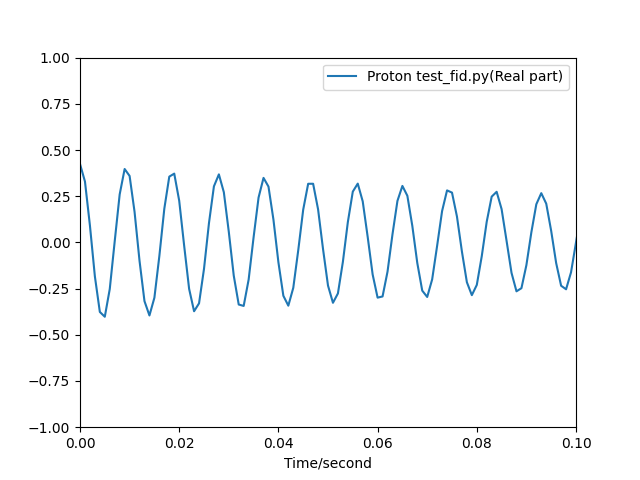
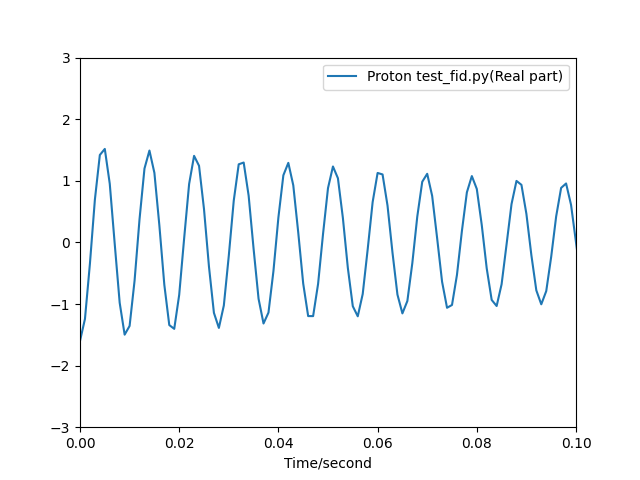
Add pulse for X gate.

diff --git a/example.py b/example.py
@@ -500,10 +500,98 @@ def exact_CNOT_pulse_Ccontrol():
 
 
 def Xgate_proton():
+    '''
+    Initialize the chloroform instance
+    '''
+    NMRsample = chloroform()
+    '''
+    Set the initial density matrix
+    '''
+    NMRsample.set_density(np.array([[0.5, 0, 0, 0],
+                                    [0, 0.3, 0, 0],
+                                    [0, 0, -0.3, 0],
+                                    [0, 0, 0, -0.5]], dtype=complex))
+
+    '''
+    Add a single pulse on proton.
+    '''
+    NMRsample.add_pulse(pulseSingle(0, pl90H, wH))
+    '''
+    Evolve the density matrix with all pulses
+    '''
+    NMRsample.evolve_all_pulse()
+
+    matrix=NMRsample.get_pulse_unitary()
+    print(matrix)
+
+
+    '''
+    Read the data signal in the time domain
+    '''
+    NMRsample.read_proton_time()
+    NMRsample.read_carbon_time()
+    '''
+    Read the data signal in the frequency
+    '''
+    NMRsample.read_proton_spectrum()
+    NMRsample.read_carbon_spectrum()
+    '''
+    Simulate what is shown on the screen
+    '''
+    NMRsample.show_proton_spectrum_real(-5, 15, store=True,
+                                        path="Figure/Xgateproton-protonspectrum.png")
+
+    NMRsample.show_carbon_spectrum_real(74, 80, store=True,
+                                        path="Figure/Xgateproton-carbonspectrum.png")
+
     return
 
 
 def Xgate_carbon():
+    '''
+    Initialize the chloroform instance
+    '''
+    NMRsample = chloroform()
+    '''
+    Set the initial density matrix
+    '''
+    NMRsample.set_density(np.array([[0.5, 0, 0, 0],
+                                    [0, 0.3, 0, 0],
+                                    [0, 0, -0.3, 0],
+                                    [0, 0, 0, -0.5]], dtype=complex))
+
+    '''
+    Add a single pulse on proton.
+    '''
+    NMRsample.add_pulse(pulseSingle(0, pl90C, wC))
+    '''
+    Evolve the density matrix with all pulses
+    '''
+    NMRsample.evolve_all_pulse()
+
+    matrix=NMRsample.get_pulse_unitary()
+    print(matrix)
+
+
+    '''
+    Read the data signal in the time domain
+    '''
+    NMRsample.read_proton_time()
+    NMRsample.read_carbon_time()
+    '''
+    Read the data signal in the frequency
+    '''
+    NMRsample.read_proton_spectrum()
+    NMRsample.read_carbon_spectrum()
+    '''
+    Simulate what is shown on the screen
+    '''
+    NMRsample.show_proton_spectrum_real(-5, 15, store=True,
+                                        path="Figure/Xgatecarbon-protonspectrum.png")
+
+    NMRsample.show_carbon_spectrum_real(74, 80, store=True,
+                                        path="Figure/Xgatecarbon-carbonspectrum.png")
+
     return
 
 
@@ -531,17 +619,7 @@ def P1_pulse():
     NMRsample.add_pulse(delayTime(0.5 / Jfreq))
     NMRsample.add_pulse(pulseTwo(1, 0.5 * pl90H, wH, 0, 0.5 * pl90C, wC))
     NMRsample.add_pulse(delayTime(0.5 / Jfreq))
-    NMRsample.add_pulse(pulseSingle(0, 0.5 * pl90C, wC))
-
-
-    '''
-    NMRsample.add_pulse(pulseSingle(0, 0.5 * pl90H, wH))
-    NMRsample.add_pulse(delayTime(0.5 / Jfreq))
-    NMRsample.add_pulse(pulseSingle(1, 0.5 * pl90H, wH))
-    NMRsample.add_pulse(pulseSingle(0, 0.5 * pl90C, wC))
-    NMRsample.add_pulse(delayTime(0.5 / Jfreq))
-    NMRsample.add_pulse(pulseSingle(0, 0.5 * pl90C, wC))
-    '''
+    NMRsample.add_pulse(pulseSingle(1, 0.5 * pl90C, wC))
 
 
     '''
@@ -592,11 +670,13 @@ def P2_pulse():
     (pi/2)Ix2---(2Iz1Iz2)---(pi/2)Iy2
     Recall that channel 0 for +x, 1 for +y, 2 for -x, 3 for -y
     '''
+
     NMRsample.add_pulse(pulseSingle(0, 0.5 * pl90C, wC))
     NMRsample.add_pulse(delayTime(0.5 / Jfreq))
     NMRsample.add_pulse(pulseTwo(1, 0.5 * pl90C, wC, 0, 0.5 * pl90H, wH))
     NMRsample.add_pulse(delayTime(0.5 / Jfreq))
-    NMRsample.add_pulse(pulseSingle(0, 0.5 * pl90H, wH))
+    NMRsample.add_pulse(pulseSingle(1, 0.5 * pl90H, wH))
+
 
     '''
     Evolve the density matrix with all pulses
@@ -638,4 +718,7 @@ if __name__ == "__main__":
     # exact_CNOT_pulse_Ccontrol()
     # pulse_length_calib_carbon()
     # pulse_length_calib_proton()
-    P1_pulse()
+    #P1_pulse()
+
+    #Xgate_proton()
+    Xgate_carbon()

diff --git a/test/test_pulse_matrix.py b/test/test_pulse_matrix.py
@@ -33,7 +33,6 @@ def test_pulse_two_case1():
     assert all_close(matrix1, matrix2)
 
 
-
 def test_pulse_two_case2():
     NMRsample1 = chloroform()
     NMRsample1.set_density(np.array([[0.5, 0, 0, 0],
@@ -63,9 +62,62 @@ def test_pulse_two_case2():
     assert all_close(matrix1, matrix2)
 
 
+def test_pulse_two_case3():
+    NMRsample1 = chloroform()
+    NMRsample1.set_density(np.array([[0.5, 0, 0, 0],
+                                     [0, 0.4, 0, 0],
+                                     [0, 0, 0.05, 0],
+                                     [0, 0, 0, 0.05]], dtype=complex))
 
+    NMRsample1.add_pulse(pulseSingle(0, 0.5 * pl90H, wH))
+    NMRsample1.add_pulse(delayTime(0.5 / Jfreq))
+    NMRsample1.add_pulse(pulseTwo(1, 0.5 * pl90H, wH, 0, 0.5 * pl90C, wC))
+    NMRsample1.add_pulse(delayTime(0.5 / Jfreq))
+    NMRsample1.add_pulse(pulseSingle(0, 0.5 * pl90C, wC))
+    NMRsample1.evolve_all_pulse()
+    matrix1 = NMRsample1.get_pulse_unitary()
+
+    NMRsample1.read_proton_time()
+    NMRsample1.read_proton_spectrum()
+    NMRsample1.show_proton_spectrum_real(-5, 15)
+    NMRsample1.show_proton_fid_real(maxtime=0.01, miny=-0.000001, maxy=0.000001)
+
+    print(NMRsample1._proton_time_domain)
+    print(matrix1)
+
+    NMRsample2 = chloroform()
+    NMRsample2.set_density(np.array([[0.5, 0, 0, 0],
+                                     [0, 0.3, 0, 0],
+                                     [0, 0, -0.3, 0],
+                                     [0, 0, 0, -0.5]], dtype=complex))
+
+    NMRsample2.add_pulse(pulseSingle(0, 0.5 * pl90H, wH))
+    NMRsample2.add_pulse(delayTime(0.5 / Jfreq))
+    NMRsample2.add_pulse(pulseSingle(1, 0.5 * pl90H, wH))
+    NMRsample2.add_pulse(pulseSingle(0, 0.5 * pl90C, wC))
+    NMRsample2.add_pulse(delayTime(0.5 / Jfreq))
+    NMRsample2.add_pulse(pulseSingle(0, 0.5 * pl90C, wC))
+
+    NMRsample2.evolve_all_pulse()
+    matrix2 = NMRsample2.get_pulse_unitary()
+
+    NMRsample2.read_proton_time()
+    NMRsample2.read_proton_spectrum()
+    NMRsample2.show_proton_spectrum_real(-5, 15)
+    NMRsample2.show_proton_fid_real(maxtime=0.01, miny=-0.000001, maxy=0.000001)
+
+    print(NMRsample2._proton_time_domain)
+
+    print(matrix2)
+
+    print(norm_2_distance(matrix1, matrix2))
+
+    assert all_close(matrix1, matrix2)
+
+    assert all_close(NMRsample1.get_density(), NMRsample2.get_density())
 
 
 if __name__ == "__main__":
-    test_pulse_two_case1()
-    test_pulse_two_case2()
+    # test_pulse_two_case1()
+    # test_pulse_two_case2()
+    test_pulse_two_case3()

diff --git a/NMRdensity.py b/NMRdensity.py
@@ -84,6 +84,15 @@ class chloroform:
     def get_times(self):
         return self._times
 
+
+    '''
+    Calculate the thermal equilibrium density density matrix 
+    '''
+    def thermal_equilibrium_density(self):
+        return
+
+
+
     def reset_proton_params(self,
                             T1p,
                             T2p,
@@ -275,20 +284,20 @@ class chloroform:
                       )
         return MC
 
-    def show_proton_fid_real(self, maxtime, store=False, path=None):
+    def show_proton_fid_real(self, maxtime, store=False, path=None, miny=-1,maxy=1):
         plt.plot(self._times, np.real(self._proton_time_domain), label="Proton test_fid.py(Real part)")
         plt.xlim(0, maxtime)
-        plt.ylim(-1, 1)
+        plt.ylim(miny, maxy)
         plt.xlabel("Time/second")
         plt.legend()
         if store:
             plt.savefig(path)
         plt.show()
 
-    def show_proton_fid_imag(self, maxtime, store=False, path=None):
+    def show_proton_fid_imag(self, maxtime, store=False, path=None, miny=-1,maxy=1):
         plt.plot(self._times, np.imag(self._proton_time_domain), label="Proton test_fid.py(Imaginary part)")
         plt.xlim(0, maxtime)
-        plt.ylim(-1, 1)
+        plt.ylim(miny, maxy)
         plt.xlabel("Time/second")
         plt.legend()
         if store:
@@ -315,20 +324,20 @@ class chloroform:
             plt.savefig(path)
         plt.show()
 
-    def show_carbon_fid_real(self, maxtime, store=False, path=None):
+    def show_carbon_fid_real(self, maxtime, store=False, path=None, miny=-1,maxy=1):
         plt.plot(self._times, np.real(self._carbon_time_domain), label="Carbon test_fid.py(Real part)")
         plt.xlim(0, maxtime)
-        plt.ylim(-1, 1)
+        plt.ylim(miny, maxy)
         plt.xlabel("Time/second")
         plt.legend()
         if store:
             plt.savefig(path)
         plt.show()
 
-    def show_carbon_fid_imag(self, maxtime, store=False, path=None):
+    def show_carbon_fid_imag(self, maxtime, store=False, path=None, miny=-1,maxy=1):
         plt.plot(self._times, np.real(self._carbon_freq_domain), label="Carbon test_fid.py(Imaginary part)")
         plt.xlim(0, maxtime)
-        plt.ylim(-1, 1)
+        plt.ylim(miny, maxy)
         plt.xlabel("Time/second")
         plt.legend()
         if store:

diff --git a/util.py b/util.py
@@ -2,7 +2,7 @@ import numpy as np
 
 
 def all_close(matrix1, matrix2):
-    return np.allclose(matrix1, matrix2, rtol=1e-5, atol=1e-3)
+    return np.allclose(np.real(matrix1), np.real(matrix2), rtol=1e-8, atol=1e-5) and np.allclose(np.imag(matrix1), np.imag(matrix2), rtol=1e-8, atol=1e-5)
 
 
 def hilbert_schmidt_distance(V: np.ndarray, U: np.ndarray):
